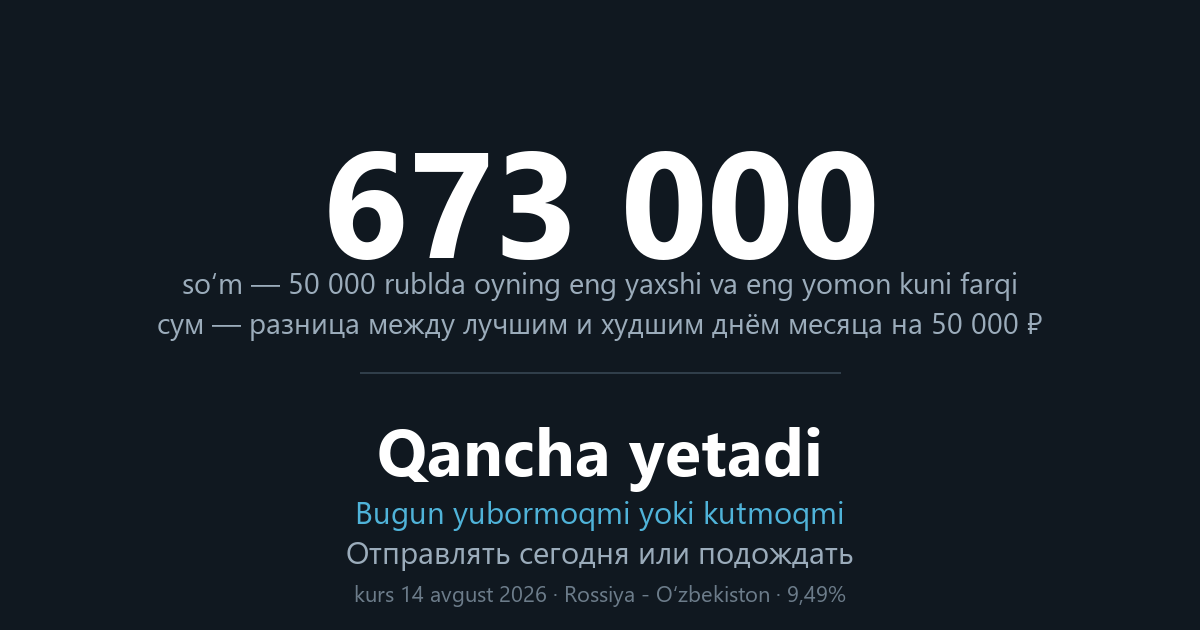
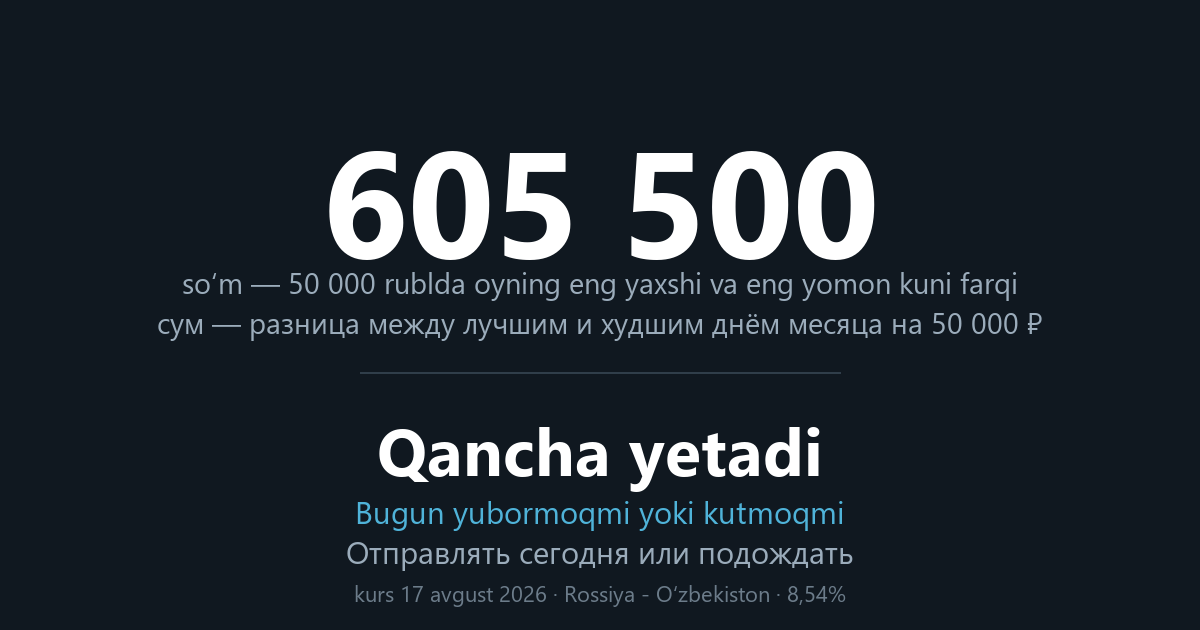
chore: запас, страница поиска и обложка пересобраны на курс 17 августа
Отставали на три дня: в data.js и kurs.html стоял курс за 14 августа и
размах 9,49%, которого больше нет — окно съехало, стало 8,54%. Одна
команда py obnovit_vsyo.py, версия скриптов поднята до 43, обложка
пересобрана (605 500 сум по 21 публикации ЦБ).

fix(proverka): «в графике столько точек, сколько курсов в данных» краснела
на исправном экране

Проверка сравнивала число точек графика с длиной ЗАПАСА. В запасе лежит
чуть больше месяца — сегодня 22 курса за 31 день, — а график рисует окно
в тридцать дней, 21 точку: окно применяется внутри вердикта, и это
правильно, подписи под графиком тоже про тридцать дней. Проверка
утверждала, что запас и окно одно и то же, и держалась ровно до дня,
когда собранный ряд перерос месяц.

Тот же класс, что «в графике ровно 30 точек» и «разница около 400 тысяч»:
проверка, прибитая к числу запаса, краснеет сама собой. Теперь
сравнивается с тем самым рядом, из которого рисуется линия, плюс
проверяется, что этот ряд — окно внутри запаса, а не что-то своё.

diff --git a/kurs.html b/kurs.html
@@ -34,7 +34,7 @@
 <meta property="og:description" content="Отправлять сегодня или подождать. Курс ЦБ Узбекистана, курс переводов и разница в сумах на вашей сумме.">
 <meta property="og:type" content="website">
 <meta property="og:url" content="https://m1llerzz.github.io/KURS-/kurs.html">
-<meta property="og:image" content="https://m1llerzz.github.io/KURS-/oblozhka.png?v=20260814">
+<meta property="og:image" content="https://m1llerzz.github.io/KURS-/oblozhka.png?v=20260817">
 <meta property="og:image:width" content="1200">
 <meta property="og:image:height" content="630">
 <meta name="twitter:card" content="summary_large_image">
@@ -119,9 +119,9 @@
 </p>
 
 <div class="kurs">
-  <div class="big"><span data-zapas="kurs">141,76</span> сум за 1 ₽</div>
+  <div class="big"><span data-zapas="kurs">141,83</span> сум за 1 ₽</div>
   <div class="podpis">
-    Курс ЦБ Узбекистана на <span data-zapas="data_ru">14 августа 2026</span>.
+    Курс ЦБ Узбекистана на <span data-zapas="data_ru">17 августа 2026</span>.
     <span id="kurs-verdikt">Заметно ниже среднего за месяц.</span>
   </div>
 </div>
@@ -149,7 +149,7 @@
        публикацию, и круглое «тридцать» рядом с настоящими датами читается
        как нестыковка. Даты подставляет obnovit_zapas.py. -->
   Это главное, что стоит знать про переводы в Узбекистан, и об этом молчат
-  все. Замер по курсам ЦБ <span data-zapas="period_ru">с 17 июля по 14 августа 2026</span>, на переводе 50 000 ₽:
+  все. Замер по курсам ЦБ <span data-zapas="period_ru">с 17 июля по 17 августа 2026</span>, на переводе 50 000 ₽:
 </p>
 
 <div class="obertka">
@@ -162,8 +162,8 @@
         <td class="num"><span data-zapas="razmah_percent">9,49</span>%</td>
         <td class="num"><span data-zapas="razmah_sum">673 000</span></td></tr>
     <tr><td>Сервис перевода</td>
-        <td class="num"><span data-zapas="nacenka_percent">4,06</span>%</td>
-        <td class="num"><span data-zapas="nacenka_sum">288 000</span></td></tr>
+        <td class="num"><span data-zapas="nacenka_percent">4,11</span>%</td>
+        <td class="num"><span data-zapas="nacenka_sum">291 500</span></td></tr>
     <tr><td>Банк получателя</td><td class="num">0,84%</td><td class="num">55 000</td></tr>
   </tbody>
 </table>
@@ -188,11 +188,11 @@
 <p>
   Официальный курс ЦБ — это не тот курс, по которому идёт перевод. Сервисы
   считают по своему, и разница нигде не написана отдельной строкой.
-  На <span data-zapas="data_ru">14 августа 2026</span> года: официальный
-  <span data-zapas="kurs">141,76</span>, курс переводов
+  На <span data-zapas="data_ru">17 августа 2026</span> года: официальный
+  <span data-zapas="kurs">141,83</span>, курс переводов
   <span data-zapas="kurs_servisa">136,00</span>. Разница
-  <span data-zapas="nacenka_percent">4,06</span>% — это
-  <span data-zapas="nacenka_sum">288 000</span> сум на переводе 50 000 ₽.
+  <span data-zapas="nacenka_percent">4,11</span>% — это
+  <span data-zapas="nacenka_sum">291 500</span> сум на переводе 50 000 ₽.
 </p>
 
 <p>
@@ -217,8 +217,8 @@
 
 <p class="vopros">Какой сегодня курс рубля к суму?</p>
 <p class="otvet">
-  На <span data-zapas="data_ru">14 августа 2026</span> официальный курс
-  ЦБ Узбекистана — <span data-zapas="kurs">141,76</span> сума за
+  На <span data-zapas="data_ru">17 августа 2026</span> официальный курс
+  ЦБ Узбекистана — <span data-zapas="kurs">141,83</span> сума за
   1 рубль. Перевод идёт по курсу около
   <span data-zapas="kurs_servisa">136,00</span> сума за рубль.
 </p>
@@ -267,9 +267,9 @@
 </p>
 
 <div class="kurs">
-  <div class="big"><span data-zapas="kurs">141,76</span> so‘m — 1 ₽</div>
+  <div class="big"><span data-zapas="kurs">141,83</span> so‘m — 1 ₽</div>
   <div class="podpis">
-    Markaziy bank kursi, <span data-zapas="data_uz">14 avgust 2026</span>.
+    Markaziy bank kursi, <span data-zapas="data_uz">17 avgust 2026</span>.
   </div>
 </div>
 
@@ -282,11 +282,11 @@
 <h3>Eng ko‘p pulni yuborish KUNI hal qiladi</h3>
 
 <p>
-  O‘lchov (<span data-zapas="period_uz">17 iyul — 14 avgust 2026</span>), 50 000 rubl uchun: yuborish kuni —
+  O‘lchov (<span data-zapas="period_uz">17 iyul — 17 avgust 2026</span>), 50 000 rubl uchun: yuborish kuni —
   <span data-zapas="razmah_percent">9,49</span>% yoki
   <span data-zapas="razmah_sum">673 000</span> so‘m; servis tanlash —
-  <span data-zapas="nacenka_percent">4,06</span>% yoki
-  <span data-zapas="nacenka_sum">288 000</span> so‘m; qabul qiluvchi
+  <span data-zapas="nacenka_percent">4,11</span>% yoki
+  <span data-zapas="nacenka_sum">291 500</span> so‘m; qabul qiluvchi
   bank — 0,84%.
 </p>
 
@@ -302,11 +302,11 @@
 
 <p>
   Rasmiy kurs — bu o‘tkazma kursi emas.
-  <span data-zapas="data_uz">14 avgust 2026</span>: rasmiy
-  <span data-zapas="kurs">141,76</span>, o‘tkazma
+  <span data-zapas="data_uz">17 avgust 2026</span>: rasmiy
+  <span data-zapas="kurs">141,83</span>, o‘tkazma
   <span data-zapas="kurs_servisa">136,00</span>. Farqi
-  <span data-zapas="nacenka_percent">4,06</span>% — 50 000 rublda
-  <span data-zapas="nacenka_sum">288 000</span> so‘m. Bu komissiya
+  <span data-zapas="nacenka_percent">4,11</span>% — 50 000 rublda
+  <span data-zapas="nacenka_sum">291 500</span> so‘m. Bu komissiya
   emas, bu kurs, va u hech qayerda alohida yozilmagan.
 </p>
 

diff --git a/test-app.js b/test-app.js
@@ -171,23 +171,38 @@ function dozhdatsya() {
   const grafik = w.document.getElementById('vSpark');
   const liniya = grafik.querySelector('polyline');
   proverka('график нарисован', !!liniya);
-  /* Точек в графике ровно столько, сколько курсов в данных.
+  /* Точек в графике ровно столько, сколько в ряде, который рисуется.
    *
-   * Здесь стояло «ровно 30» — и проверка покраснела, как только сборщик
-   * перестал дублировать пятничный курс под субботу и воскресенье: за
-   * тридцать календарных дней ЦБ публикует около двадцати одного раза.
-   * Число публикаций зависит от календаря и праздников, поэтому прибивать
-   * его константой нельзя. Считаем от тех же данных, что рисуют линию, —
-   * тогда проверка ловит настоящую поломку «график потерял точки», а не
-   * очередной длинный уикенд. */
+   * Числом это прибивать нельзя — здесь уже стояло «ровно 30», и оно
+   * покраснело, как только сборщик перестал дублировать пятничный курс
+   * под субботу и воскресенье: за тридцать календарных дней ЦБ публикует
+   * около двадцати одного раза, и сколько именно — решает календарь.
+   *
+   * Сравнивать с длиной ЗАПАСА тоже нельзя, и это выяснилось так же —
+   * покраснением на исправном экране. В запасе лежит чуть больше месяца
+   * (сегодня 22 курса за 31 день), а график рисует окно в тридцать дней
+   * (21 точку): окно применяется внутри вердикта, и это правильно —
+   * подписи под графиком тоже про тридцать дней. Проверка же
+   * утверждала, что запас и окно — одно и то же, и держалась только
+   * пока собранный ряд не перерос месяц.
+   *
+   * Сравниваем с тем самым рядом, из которого рисуется линия. Тогда
+   * проверка ловит настоящую поломку «график потерял точки», а не
+   * длинный уикенд и не лишний день в запасе. */
   const tochekVGrafike = liniya
     ? liniya.getAttribute('points').trim().split(/\s+/).length : 0;
-  const tochekVDannyh = (w.HISTORY_ZAPAS || []).length;
-  proverka('в графике столько точек, сколько курсов в данных',
-    tochekVGrafike === tochekVDannyh,
-    tochekVGrafike + ' против ' + tochekVDannyh);
-  proverka('точек хватает на месячный график', tochekVDannyh >= 15,
-    tochekVDannyh + ' — за тридцать дней ЦБ публикует около двадцати одного раза');
+  const ryadGrafika = w.CALC.sovet(w.HISTORY_ZAPAS).ryad || [];
+  proverka('в графике столько точек, сколько в его ряде',
+    tochekVGrafike === ryadGrafika.length,
+    tochekVGrafike + ' против ' + ryadGrafika.length);
+  proverka('ряд графика — окно внутри запаса, а не что-то своё',
+    ryadGrafika.length > 0
+      && ryadGrafika.length <= (w.HISTORY_ZAPAS || []).length
+      && ryadGrafika[ryadGrafika.length - 1].date
+         === w.HISTORY_ZAPAS[w.HISTORY_ZAPAS.length - 1].date,
+    'последняя точка графика обязана быть самым свежим курсом запаса');
+  proverka('точек хватает на месячный график', ryadGrafika.length >= 15,
+    ryadGrafika.length + ' — за тридцать дней ЦБ публикует около двадцати одного раза');
   proverka('в графике есть линия среднего', !!grafik.querySelector('line.av'),
     'без якоря человек не понимает, много это или мало');
   proverka('на графике отмечен сегодняшний день', !!grafik.querySelector('circle.dt'));

diff --git a/data.js b/data.js
@@ -62,10 +62,10 @@ window.SERVICES = [
     "limit_per_operation": 100000,
     "delivery_minutes": 60,
     "incoming_fee": 0,
-    "checked_at": "2026-08-16T17:30:32+00:00",
+    "checked_at": "2026-08-16T21:16:51+00:00",
     "verified_by_receipt": false,
     "fee_unknown": false,
-    "nacenka_percent": 4.06,
+    "nacenka_percent": 4.11,
     "url": "https://yubor.ru/",
     "limit_min": 9000,
     "istochnik_uslovij": "yubor.ru, 16.08.2026"
@@ -83,10 +83,10 @@ window.SERVICES = [
     "limit_per_operation": 200000,
     "delivery_minutes": 60,
     "incoming_fee": 0,
-    "checked_at": "2026-08-16T17:30:32+00:00",
+    "checked_at": "2026-08-16T21:16:51+00:00",
     "verified_by_receipt": false,
     "fee_unknown": false,
-    "nacenka_percent": 4.06,
+    "nacenka_percent": 4.11,
     "url": "https://avosend.com/",
     "limit_v_sutki": 380000,
     "limit_v_mesyac": 1500000,
@@ -112,7 +112,7 @@ window.BANKS = [];
  * Флаг zapas заставляет приложение честно предупредить: без свежего
  * курса весь расчёт становится ориентировочным.
  */
-window.KURSY_ZAPAS = {"usd_uzs": 11937.89, "rub_uzs": 141.76, "date": "14.08.2026", "zapas": true};
+window.KURSY_ZAPAS = {"usd_uzs": 11891.18, "rub_uzs": 141.83, "date": "17.08.2026", "zapas": true};
 
 /**
  * Запасная история курса рубля за 30 дней (курсы ЦБ, замер 15.08.2026).
@@ -130,5 +130,5 @@ window.HISTORY_ZAPAS = [
   { date: '2026-08-06', rub_uzs: 146.37 }, { date: '2026-08-07', rub_uzs: 146.19 },
   { date: '2026-08-10', rub_uzs: 145.21 }, { date: '2026-08-11', rub_uzs: 144.64 },
   { date: '2026-08-12', rub_uzs: 143.93 }, { date: '2026-08-13', rub_uzs: 144.29 },
-  { date: '2026-08-14', rub_uzs: 141.76 },
+  { date: '2026-08-14', rub_uzs: 141.76 }, { date: '2026-08-17', rub_uzs: 141.83 },
 ];

diff --git a/index.html b/index.html
@@ -17,7 +17,7 @@
      единственный бесплатный источник роста, который у нас есть. Карточка
      без картинки выглядит в чате бледной строкой, и её пролистывают.
      Число на обложке живое: пересобирается `bot/sobrat_oblozhku.py`. -->
-<meta property="og:image" content="https://m1llerzz.github.io/KURS-/oblozhka.png?v=20260814">
+<meta property="og:image" content="https://m1llerzz.github.io/KURS-/oblozhka.png?v=20260817">
 <meta property="og:image:width" content="1200">
 <meta property="og:image:height" content="630">
 <meta name="twitter:card" content="summary_large_image">
@@ -563,9 +563,9 @@
      ?v= обязателен: Telegram держит файлы мини-аппа в кеше по нескольку
      часов, и без смены адреса человек продолжает видеть старую версию.
      Правило: поменял js — увеличил число здесь, иначе правка не доедет. -->
-<script src="i18n.js?v=42"></script>
-<script src="data.js?v=42"></script>
-<script src="calc.js?v=42"></script>
-<script src="app.js?v=42"></script>
+<script src="i18n.js?v=43"></script>
+<script src="data.js?v=43"></script>
+<script src="calc.js?v=43"></script>
+<script src="app.js?v=43"></script>
 </body>
 </html>
